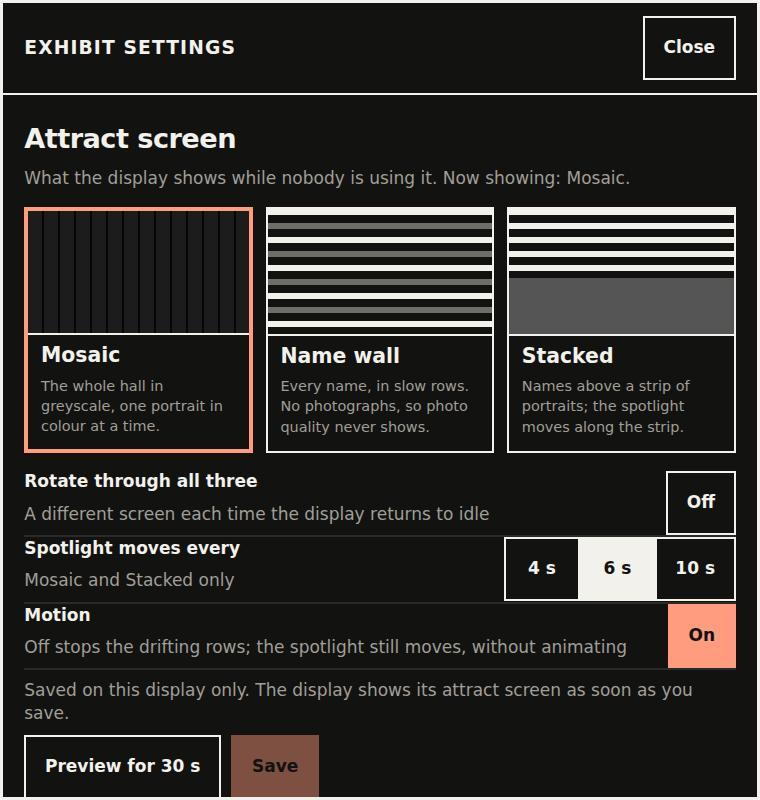
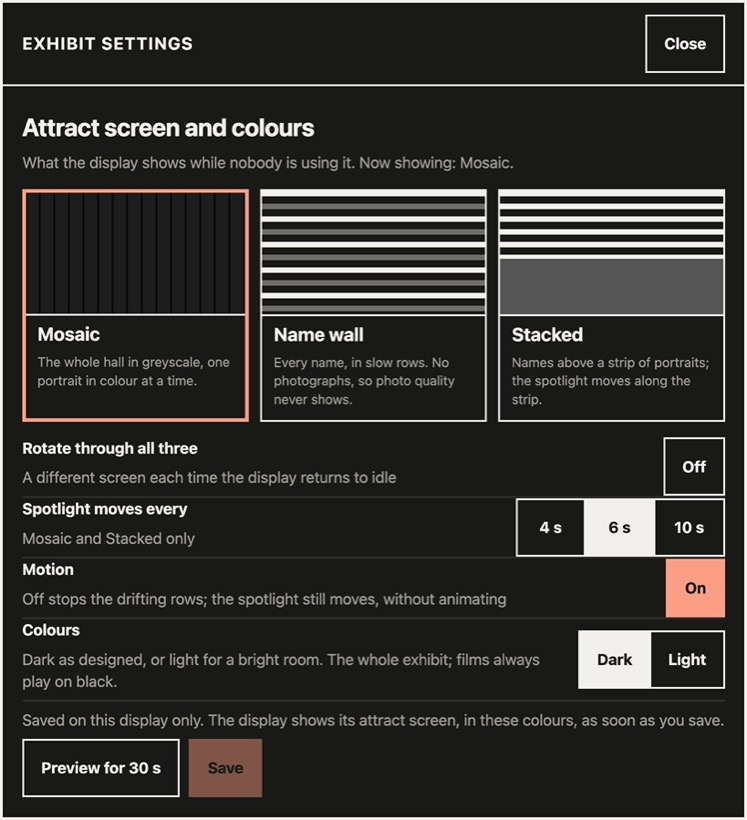
Training guides: new screenshots from the current app, and a staff card
Retake the display's pictures (attract screen, wall, story, Connections)
and add search with the display's own keys, the passcode keypad, the
admin panel's content and staff connection sections, the display's own
Wi-Fi, and the staff portal's connect page, studio, person editor and
display panel. Add a one-sheet staff card for the current app, and the
own-Wi-Fi steps to the display remote guide.

Changed region(s): [[0.0, 0.0, 1.0, 1.0], [0.9853, 0.9688, 1.0, 1.0]]

diff --git a/docs/training/staff-card.md b/docs/training/staff-card.md
@@ -1,0 +1,83 @@
+# The Hall of Fame display: the card
+
+Print this on one sheet, both sides, and keep it by the display. It covers
+what staff do. Everything else is in the [gallery staff
+walkthrough](gallery-staff.md), the [staff portal
+walkthrough](staff-portal.md), the [display remote](display-remote.md) and
+the staff guide (`STAFF-GUIDE.md`).
+
+---
+
+## Side 1: every day
+
+**Opening.** Switch on the PC. The exhibit starts by itself. Leaving it on
+is fine: it restarts itself every night at 04:00.
+
+**The daily check.**
+
+1. The attract screen is showing, one portrait lit up in colour.
+2. Touch **Touch to enter**, then a face: their panel opens.
+3. Touch **Search** and type a few letters on the screen's own keys: the
+   matching faces light up.
+4. Touch **Start over**: the attract screen comes back.
+5. Wipe the screen with a soft dry cloth.
+
+**The admin panel.** Hold a finger on the top-left corner of the screen for
+5 seconds, then type the passcode and **OK**. (With a keyboard plugged in,
+**Ctrl + Shift + A** does the same.) Five wrong tries lock the keypad for a
+minute. **Close** it when you are done.
+
+**Something looks wrong.**
+
+1. Open the admin panel and write down **Release**, **Content**, the time
+   and what you saw.
+2. Touch **Reload**.
+3. Still wrong: **Restart app**.
+4. Still wrong: restart the PC, and report what you wrote down.
+
+Frozen? Wait 30 seconds first: the exhibit mends a frozen page by itself.
+The Windows desktop is showing: start **CIHOF Exhibit** from the Start menu.
+
+**Never** copy the exhibit's files, or its installer, anywhere. They hold
+films cleared for this display only.
+
+---
+
+## Side 2: changing something
+
+For a misspelt name, a corrected biography, a new portrait. On the staff
+computer with *CIHOF Staff Portal*, the same steps every time.
+
+**1. Start from what the display shows.** In the admin panel: **Staff
+connection**, **Open a staff connection** (or **Open on the display's own
+Wi-Fi**, where the display has no network, and join the Wi-Fi it names). In
+the portal: **Connect to a display**, type the address and code it shows
+(or choose **On the display's own Wi-Fi** and type only the code).
+*No network at all?* Admin panel: **Content › Export current content…** to a
+USB stick; in the portal: **Open a display's content**.
+
+**2. Make the change.** The first time, the portal asks your full name.
+Touch **Edit**, then what you want to change on the exhibit. Change it,
+**Save**.
+
+**3. Approve it.** Touch **… waiting for approval**, look at each change,
+**Approve** it.
+
+**4. Publish.** **The display**, then **Make a display update**, with a line
+saying what changed.
+
+**5. Put it on the display.** Connected: **Send it to the display**, then
+**Apply at the next reset**. On a stick: copy the file from **Documents ›
+CIHOF display updates**; in the admin panel, **Content › Load a content
+update…**, read what it changes, **Apply at the next reset**. (Or send it
+from the *CIHOF Display Remote* phone app.)
+
+**6. Look at the display.** Close the staff connection when you are done.
+
+**It went wrong?** Admin panel, **Content**, **Versions kept**: **Show this
+version** on the one before, or **Go back to it** for the content the
+display was delivered with. Nothing is ever deleted.
+
+**The display says the update was made from an earlier version?** Someone
+changed the display after you started. Do not apply it. Start again at
+step 1.

diff --git a/docs/training/staff-portal.md b/docs/training/staff-portal.md
@@ -57,6 +57,12 @@ Two ways:
   content…** to the stick. In the portal: **File › Open a display's
   content…** and choose the file.
 
+![The display's admin panel, Staff connection: how long, Open a staff connection, and Open on the display's own Wi-Fi](images/display-admin-connection.jpg)
+
+![Open on the display's own Wi-Fi: the Wi-Fi name and password to join, the address 192.168.137.1:5190, and the pairing code](images/display-admin-wifi.jpg)
+
+![The portal's Connect to a display: On the display's own Wi-Fi, Address, Code, and Connect and open what it shows](images/portal-connect.jpg)
+
 The portal's window title says **CIHOF staff portal** once it is working on
 a display's content.
 
@@ -70,6 +76,8 @@ The portal opens on the **studio**: the exhibit itself, exactly as the
 display will show it, beside a panel for editing. Use it as a visitor would
 in **Preview**; switch to **Edit** to change things.
 
+![The studio in Edit: the exhibit on the left with the attract screen's words outlined, and "Touch anything outlined" in the panel on the right](images/portal-studio.jpg)
+
 In **Edit**, everything that can be changed is outlined. Touch it, and it
 opens in the panel beside the exhibit:
 
@@ -81,6 +89,8 @@ opens in the panel beside the exhibit:
 | The attract screen's words | the headline and the line beneath |
 | A tour card (in **Tour**) | the tour's words, rules and people |
 | A place's panel (in **Connections**, places) | its name, neighbourhood, words and the people tied to it |
+
+![A person opened in Edit: their panel on the exhibit outlined, and their name, how it is alphabetised, communities and honours in the panel beside it](images/portal-edit-person.jpg)
 
 To add something, use the bar above the exhibit: **+ Inductee**, **+ Tour**,
 **+ Place**.
@@ -105,7 +115,10 @@ also has every screen card by card, for working through many at once
 
 **The display**, at the right of the bar, opens the display panel: where
 the portal's copy came from, what is saved since the last update, and the
-connection. When nothing is waiting for approval, **Make a display update**.
+connection.
+
+![The display panel: where the portal's copy came from, and Connect to the display](images/portal-display.jpg)
+ When nothing is waiting for approval, **Make a display update**.
 Add a line saying what changed, for whoever loads it. The portal
 builds the display's content from its copy, exactly as the exhibit is
 built, and writes one file (`cihof-update-….cihof`) to **Documents › CIHOF

diff --git a/docs/training/display-remote.md b/docs/training/display-remote.md
@@ -32,6 +32,14 @@ that permission off again.
    key out from the code takes a second or two. The phone remembers the
    address; it never keeps the code, which changes every time the
    connection is opened.
+
+   Where the display cannot reach the museum network, open the connection
+   on the display with **Open on the display's own Wi-Fi** instead. It
+   shows a Wi-Fi name and password as well as the code. Join that Wi-Fi on
+   the phone (if Android asks whether to stay on a Wi-Fi with no internet,
+   choose to stay),
+   then in the app choose **On the display's own Wi-Fi**, which fills in
+   the address, and type the code.
 3. It shows what the display shows. **Ask it again** to refresh.
 4. To put an update on it: **Choose a display update…** and pick the file
    (copied to the phone, or on a drive it can reach, such as the museum's
@@ -55,7 +63,7 @@ the staff portal, from what the display shows now.
 
 | It says | What to do |
 | --- | --- |
-| No display answered at … | Check the address against the admin panel, that the phone is on the museum's Wi-Fi, and that the connection is still open. |
+| No display answered at … | Check the address against the admin panel, that the phone is on the museum's Wi-Fi (or the display's own, if it was opened that way), and that the connection is still open. |
 | The display did not accept the pairing code | Type the code the admin panel shows now; it changes each time the connection is opened. Check the phone shows the right time: the two clocks must agree to within two minutes. After a dozen wrong tries the display closes the connection itself; open it again. |
 | The display stopped answering | Its connection closed (its time ran out, or somebody closed it). Open it again and reconnect. |
 | The display will not take it | The file is not a display update, or is damaged. Make it again in the staff portal. |

diff --git a/docs/training/gallery-staff.md b/docs/training/gallery-staff.md
@@ -4,7 +4,8 @@ About fifteen minutes to read, and best read standing at the display. It
 covers what visitors see, what to check each day, and what to do when
 something looks wrong. The staff guide (`docs/staff-guide.md`, or
 `STAFF-GUIDE.md` beside each release) has the full detail; section numbers
-below point into it.
+below point into it. The [staff card](staff-card.md) has the daily part on one
+sheet, to print and keep by the display.
 
 ---
 
@@ -62,6 +63,8 @@ city.
 what is said in the films, typed on the keys along the bottom of search
 (or on a keyboard, if one is plugged in).
 
+![Search: "chen" typed on the display's own keys, two people lit on the wall, and the results on the right above the keys](images/display-search.jpg)
+
 ### How this works
 
 As a visitor comes in from the attract screen, the top of the screen offers
@@ -112,12 +115,14 @@ That is all. If something is wrong, see section 5.
 
 ## 4. The admin panel
 
-![The admin panel, opening on the Attract screen settings: three options, Rotate, Spotlight, Motion, Preview and Save](images/display-admin.jpg)
+![The admin panel, opening on the Attract screen and colours: Mosaic, Name wall and Stacked, then Rotate, Spotlight, Motion, Colours, Preview for 30 s and Save](images/display-admin.jpg)
 
 The admin panel is hidden from visitors. To open it:
 
 - **hold your finger on the top-left corner of the screen for 5 seconds**, or
 - with a keyboard attached, press **Ctrl + Shift + A**,
+
+![The passcode keypad: digits 1 to 9 and 0, a delete key and OK](images/display-keypad.jpg)
 
 then enter the passcode on the keypad. Five wrong tries lock the keypad for a
 minute.
